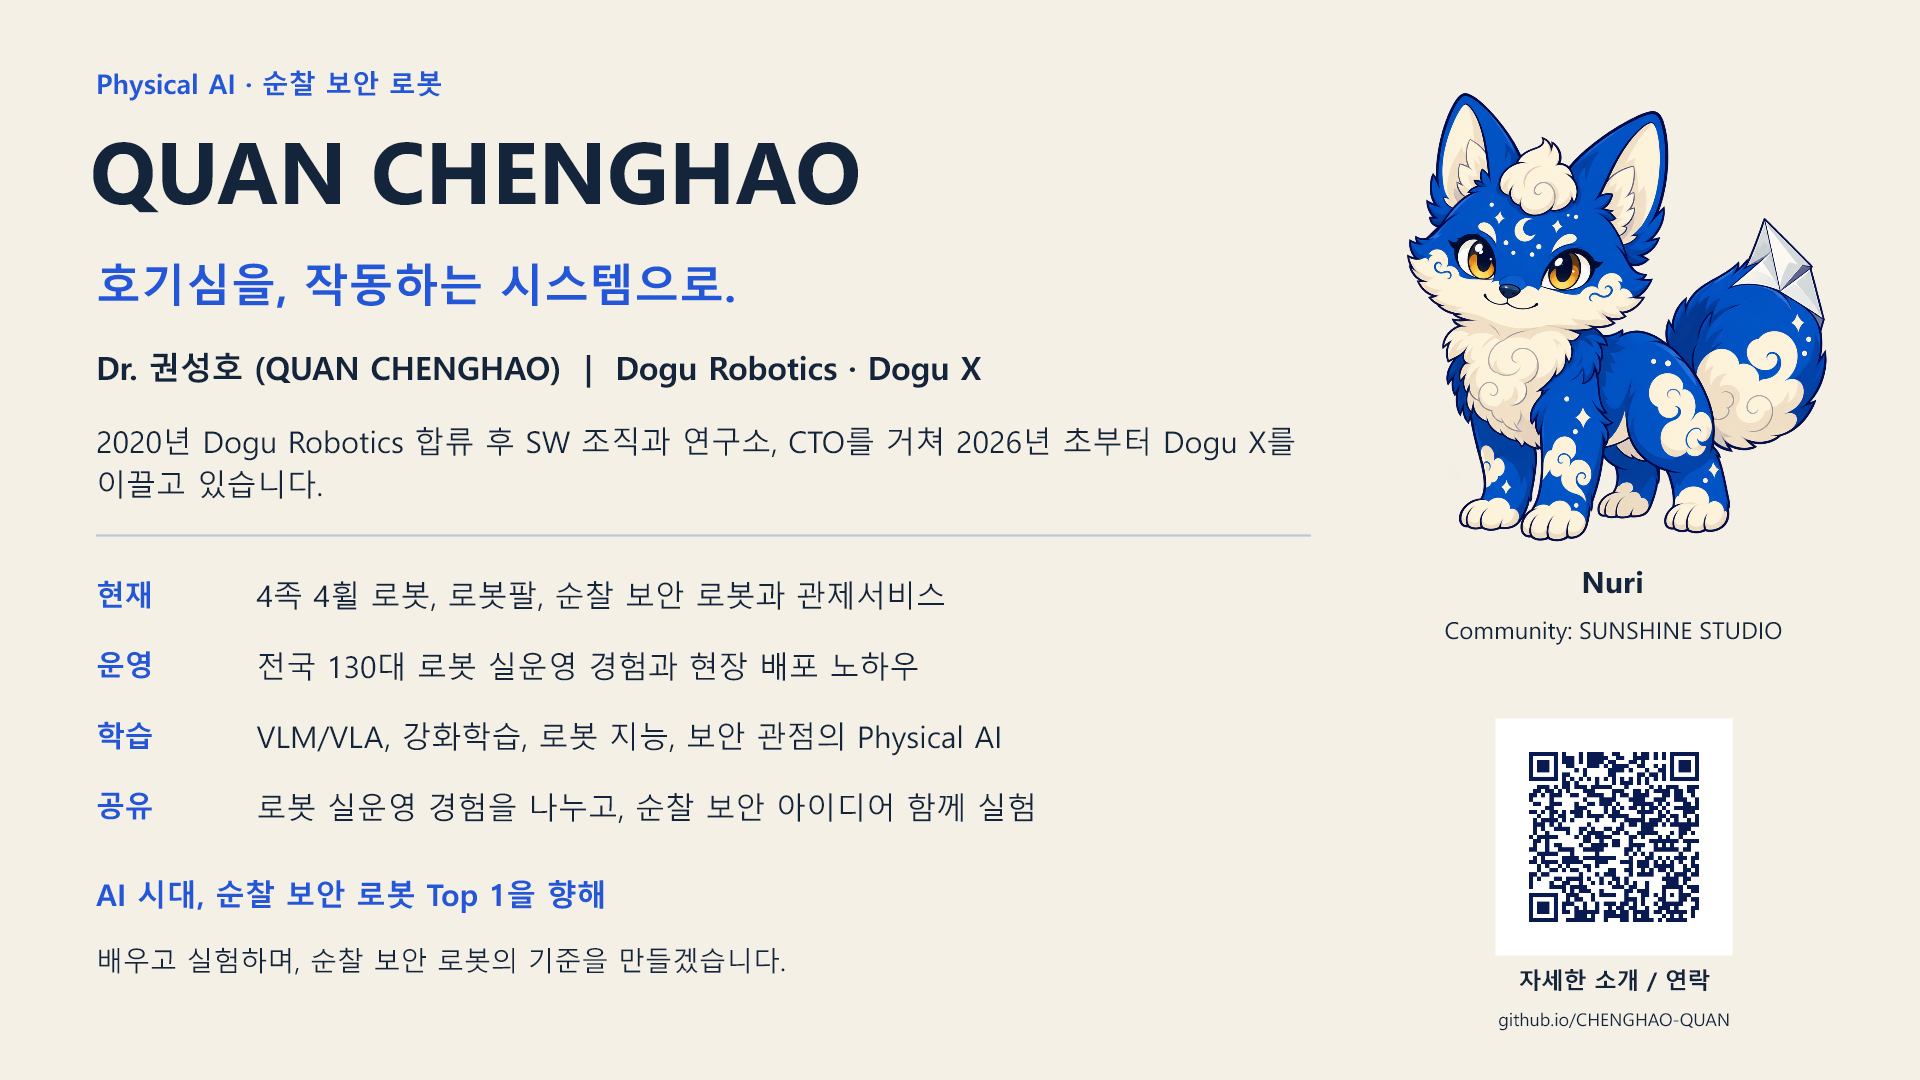
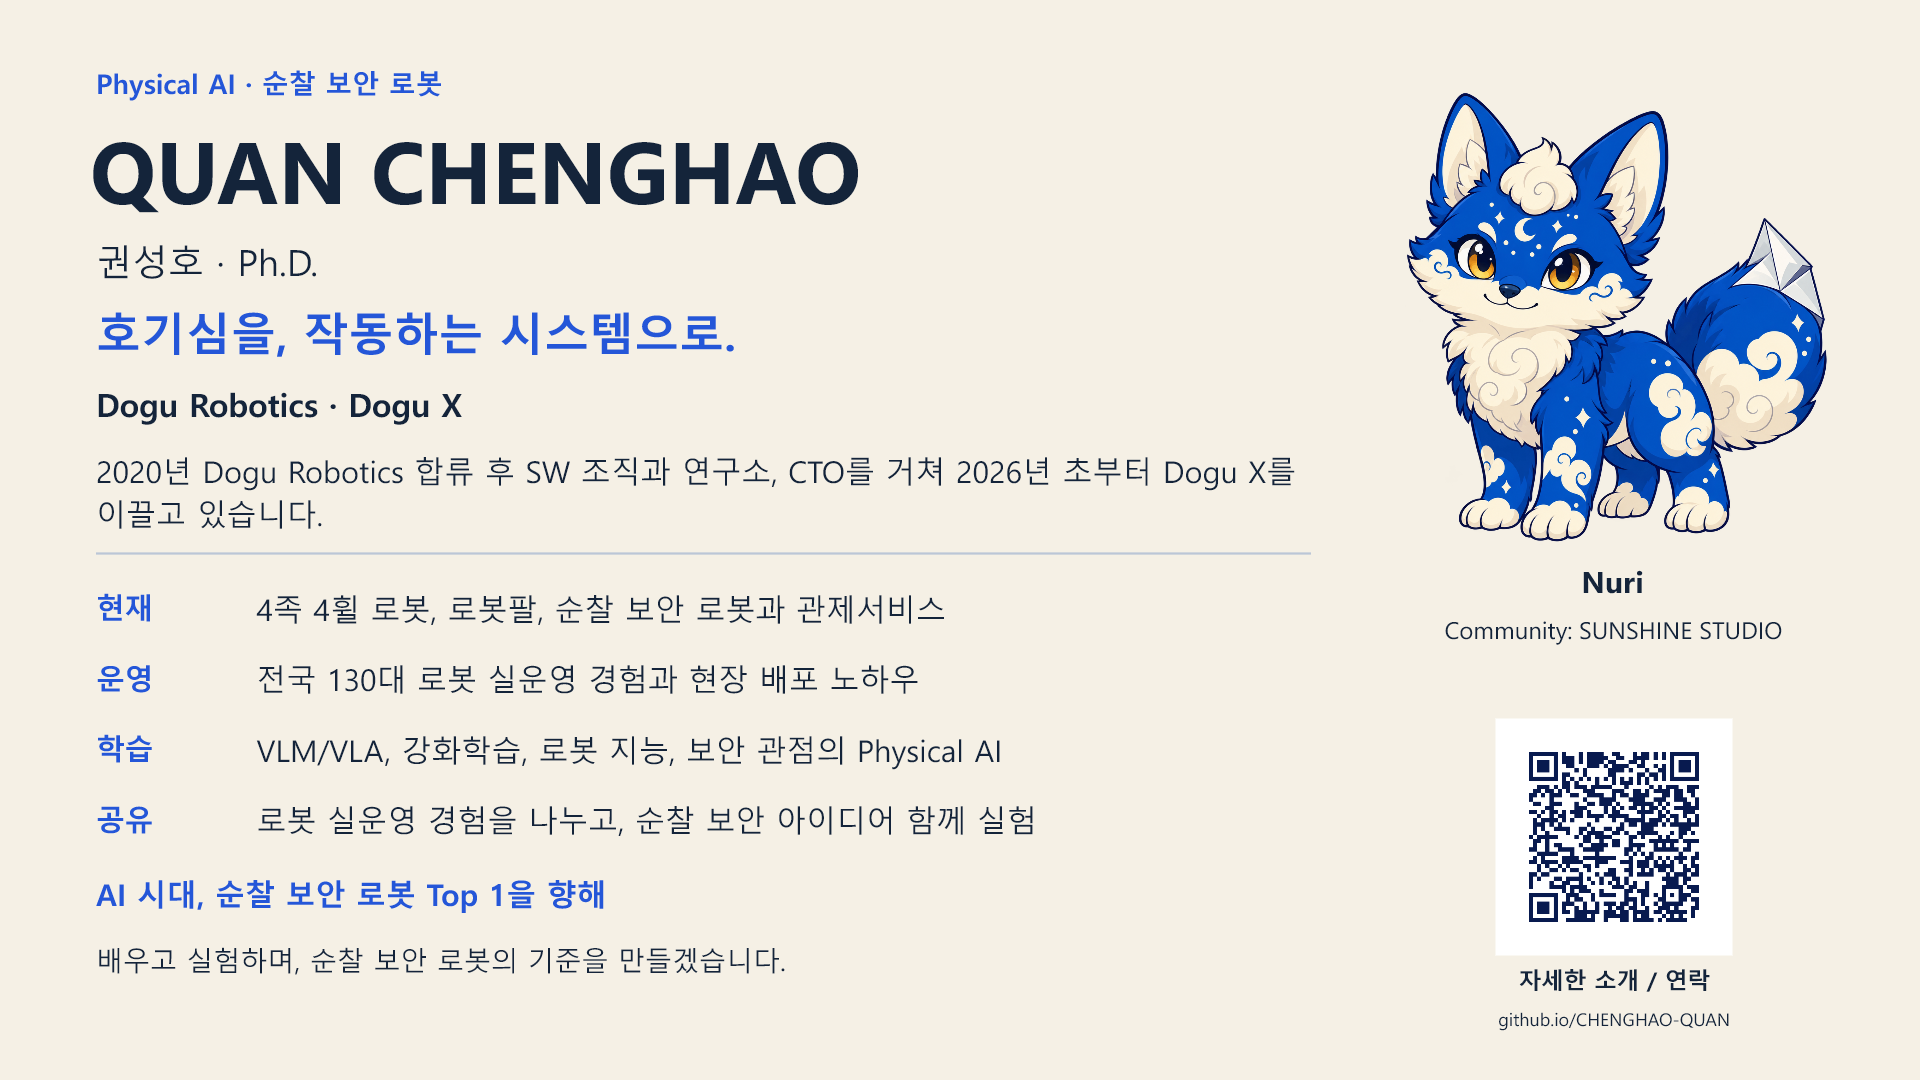
Pair QUAN CHENGHAO with Korean name across site and slides

diff --git a/knowledge-hub/index.html b/knowledge-hub/index.html
@@ -3,28 +3,28 @@
 <head>
 <meta charset="utf-8">
 <meta name="viewport" content="width=device-width, initial-scale=1">
-<title>Knowledge Hub 소개 | QUAN CHENGHAO</title>
-<meta name="description" content="QUAN CHENGHAO의 Knowledge Hub. 협력사 문서와 엔지니어의 질문·답변을 연결해 지식을 축적하는 다국어 협업 시스템.">
+<title>Knowledge Hub 소개 | QUAN CHENGHAO · 권성호</title>
+<meta name="description" content="QUAN CHENGHAO · 권성호의 Knowledge Hub. 협력사 문서와 엔지니어의 질문·답변을 연결해 지식을 축적하는 다국어 협업 시스템.">
 <meta name="theme-color" content="#F5F0E5">
 <link rel="canonical" href="https://chquandogong.github.io/CHENGHAO-QUAN/knowledge-hub/">
 <link rel="icon" type="image/png" sizes="32x32" href="../chenghao_intro_assets/favicon-32.png">
 <link rel="icon" type="image/png" sizes="192x192" href="../chenghao_intro_assets/icon-192.png">
 <link rel="apple-touch-icon" sizes="180x180" href="../chenghao_intro_assets/apple-touch-icon.png">
 <meta property="og:type" content="website">
-<meta property="og:site_name" content="QUAN CHENGHAO">
-<meta property="og:title" content="Knowledge Hub | QUAN CHENGHAO">
+<meta property="og:site_name" content="QUAN CHENGHAO · 권성호">
+<meta property="og:title" content="Knowledge Hub | QUAN CHENGHAO · 권성호">
 <meta property="og:description" content="협력사 문서와 엔지니어의 질문·답변을 연결해 지식을 축적하는 다국어 협업 시스템.">
 <meta property="og:url" content="https://chquandogong.github.io/CHENGHAO-QUAN/knowledge-hub/">
 <meta property="og:image" content="https://chquandogong.github.io/CHENGHAO-QUAN/chenghao_intro_assets/social-card.png">
 <meta property="og:image:type" content="image/png">
 <meta property="og:image:width" content="1200">
 <meta property="og:image:height" content="630">
-<meta property="og:image:alt" content="QUAN CHENGHAO and Nuri. From curiosity to working systems.">
+<meta property="og:image:alt" content="QUAN CHENGHAO · 권성호 and Nuri. From curiosity to working systems.">
 <meta name="twitter:card" content="summary_large_image">
-<meta name="twitter:title" content="Knowledge Hub | QUAN CHENGHAO">
+<meta name="twitter:title" content="Knowledge Hub | QUAN CHENGHAO · 권성호">
 <meta name="twitter:description" content="협력사 문서와 엔지니어의 질문·답변을 연결해 지식을 축적하는 다국어 협업 시스템.">
 <meta name="twitter:image" content="https://chquandogong.github.io/CHENGHAO-QUAN/chenghao_intro_assets/social-card.png">
-<meta name="twitter:image:alt" content="QUAN CHENGHAO and Nuri. From curiosity to working systems.">
+<meta name="twitter:image:alt" content="QUAN CHENGHAO · 권성호 and Nuri. From curiosity to working systems.">
 <link rel="preconnect" href="https://fonts.googleapis.com">
 <link rel="preconnect" href="https://fonts.gstatic.com" crossorigin>
 <link href="https://fonts.googleapis.com/css2?family=Noto+Sans+KR:wght@400;500;700&family=JetBrains+Mono:wght@500&display=swap" rel="stylesheet">
@@ -116,7 +116,7 @@
 
 <div class="wrap">
 <header class="hero">
-  <a class="brand-home" href="../"><span class="brand-fold" aria-hidden="true"></span>QUAN CHENGHAO</a>
+  <a class="brand-home" href="../"><span class="brand-fold" aria-hidden="true"></span>QUAN CHENGHAO · 권성호</a>
   <div class="eyebrow">Knowledge Hub · 조직 사이의 지식 순환</div>
   <h1>문서가 답하고,<br>사람이 잇고, 지식이 남는다.</h1>
   <p class="lede">협력사에서 받은 기술 문서와, 그 문서를 만든 회사의 엔지니어 사이에서 답이 흩어지지 않게 하는 비공개 협업 시스템입니다. 문서에 있는 것은 문서를 인용해 답하고, 없는 것은 답할 수 있는 사람에게 보내고, 검증된 답은 다음 사람이 찾는 지식이 됩니다. 각자 자기 언어로.</p>

diff --git a/prism/index.html b/prism/index.html
@@ -3,28 +3,28 @@
 <head>
 <meta charset="utf-8">
 <meta name="viewport" content="width=device-width, initial-scale=1">
-<title>Prism 소개 | QUAN CHENGHAO</title>
-<meta name="description" content="QUAN CHENGHAO의 Prism. AI와 나눈 판단과 자료를 연결하고 다시 찾기 위한 개인 지식 시스템.">
+<title>Prism 소개 | QUAN CHENGHAO · 권성호</title>
+<meta name="description" content="QUAN CHENGHAO · 권성호의 Prism. AI와 나눈 판단과 자료를 연결하고 다시 찾기 위한 개인 지식 시스템.">
 <meta name="theme-color" content="#F5F0E5">
 <link rel="canonical" href="https://chquandogong.github.io/CHENGHAO-QUAN/prism/">
 <link rel="icon" type="image/png" sizes="32x32" href="../chenghao_intro_assets/favicon-32.png">
 <link rel="icon" type="image/png" sizes="192x192" href="../chenghao_intro_assets/icon-192.png">
 <link rel="apple-touch-icon" sizes="180x180" href="../chenghao_intro_assets/apple-touch-icon.png">
 <meta property="og:type" content="website">
-<meta property="og:site_name" content="QUAN CHENGHAO">
-<meta property="og:title" content="Prism | QUAN CHENGHAO">
+<meta property="og:site_name" content="QUAN CHENGHAO · 권성호">
+<meta property="og:title" content="Prism | QUAN CHENGHAO · 권성호">
 <meta property="og:description" content="AI와 나눈 판단과 자료를 연결하고 다시 찾기 위한 개인 지식 시스템.">
 <meta property="og:url" content="https://chquandogong.github.io/CHENGHAO-QUAN/prism/">
 <meta property="og:image" content="https://chquandogong.github.io/CHENGHAO-QUAN/chenghao_intro_assets/social-card.png">
 <meta property="og:image:type" content="image/png">
 <meta property="og:image:width" content="1200">
 <meta property="og:image:height" content="630">
-<meta property="og:image:alt" content="QUAN CHENGHAO and Nuri. From curiosity to working systems.">
+<meta property="og:image:alt" content="QUAN CHENGHAO · 권성호 and Nuri. From curiosity to working systems.">
 <meta name="twitter:card" content="summary_large_image">
-<meta name="twitter:title" content="Prism | QUAN CHENGHAO">
+<meta name="twitter:title" content="Prism | QUAN CHENGHAO · 권성호">
 <meta name="twitter:description" content="AI와 나눈 판단과 자료를 연결하고 다시 찾기 위한 개인 지식 시스템.">
 <meta name="twitter:image" content="https://chquandogong.github.io/CHENGHAO-QUAN/chenghao_intro_assets/social-card.png">
-<meta name="twitter:image:alt" content="QUAN CHENGHAO and Nuri. From curiosity to working systems.">
+<meta name="twitter:image:alt" content="QUAN CHENGHAO · 권성호 and Nuri. From curiosity to working systems.">
 <link rel="preconnect" href="https://fonts.googleapis.com">
 <link rel="preconnect" href="https://fonts.gstatic.com" crossorigin>
 <link href="https://fonts.googleapis.com/css2?family=Noto+Sans+KR:wght@400;500;700&family=JetBrains+Mono:wght@500&display=swap" rel="stylesheet">
@@ -119,7 +119,7 @@
 
 <div class="wrap">
 <header class="hero">
-  <a class="brand-home" href="../"><span class="brand-fold" aria-hidden="true"></span>QUAN CHENGHAO</a>
+  <a class="brand-home" href="../"><span class="brand-fold" aria-hidden="true"></span>QUAN CHENGHAO · 권성호</a>
   <div class="eyebrow">Prism · 개인 지식 시스템</div>
   <h1>AI와 나눈 판단이<br>흩어지지 않게.</h1>
   <p class="lede">여러 AI 어시스턴트를 오가며 내린 결정과, 그때 버린 대안을 한곳에 모아 다음 작업 앞에 다시 꺼내 놓는 시스템입니다. 어시스턴트는 셋인데, 그 사이에 공유된 기억은 없었습니다.</p>

diff --git a/locales.js b/locales.js
@@ -48,7 +48,9 @@ globalThis.PROFILE_LOCALES = {
     slide: {
       'program-eyebrow': 'Physical AI · 순찰 보안 로봇',
       'main-title': 'AI 시대,\n순찰 보안 로봇\nTop 1을 향해',
-      'person-line': 'Dr. 권성호 (QUAN CHENGHAO)  |  Dogu Robotics · Dogu X',
+      'display-name': 'QUAN CHENGHAO',
+      'korean-name': '권성호 · Ph.D.',
+      'person-line': 'Dogu Robotics · Dogu X',
       'short-intro': '2020년 Dogu Robotics 합류 후 SW 조직과 연구소, CTO를 거쳐 2026년 초부터 Dogu X를 이끌고 있습니다.',
       'label-현재': '현재', 'value-현재': '4족 4휠 로봇, 로봇팔, 순찰 보안 로봇과 관제서비스',
       'label-운영': '운영', 'value-운영': '전국 130대 로봇 실운영 경험과 현장 배포 노하우',
@@ -62,7 +64,7 @@ globalThis.PROFILE_LOCALES = {
   en: {
     htmlLang: 'en', label: 'English',
     page: {
-      title: "QUAN CHENGHAO | From curiosity to working systems.",
+      title: "QUAN CHENGHAO · 권성호 | From curiosity to working systems.",
       skip: 'Skip to content', tools: 'Page tools', menu: 'Open menu', language: 'Select language',
       themeLight: 'Light theme', themeDark: 'Dark theme', image: 'Save page as PNG', print: 'Print / PDF',
       imageError: 'The page image could not be saved. Please use the slide PNG download.',
@@ -108,7 +110,9 @@ globalThis.PROFILE_LOCALES = {
     slide: {
       'program-eyebrow': 'Physical AI · Security Robotics',
       'main-title': 'Patrol & security\nrobotics in the AI era\nAiming for No. 1',
-      'person-line': 'Dr. 권성호 (QUAN CHENGHAO)  |  Dogu Robotics · Dogu X',
+      'display-name': 'QUAN CHENGHAO',
+      'korean-name': '권성호 · Ph.D.',
+      'person-line': 'Dogu Robotics · Dogu X',
       'short-intro': 'Joined Dogu Robotics in 2020. Led software and R&D, served as CTO.\nLeading Dogu X since early 2026.',
       'label-현재': 'Focus', 'value-현재': 'Quadruped wheeled robots, arms and security fleets',
       'label-운영': 'Field', 'value-운영': '130 robots operating across Korea, deployment expertise',
@@ -122,7 +126,7 @@ globalThis.PROFILE_LOCALES = {
   zh: {
     htmlLang: 'zh-Hans', label: '中文',
     page: {
-      title: "QUAN CHENGHAO | 从好奇出发，让系统真正运转。",
+      title: "QUAN CHENGHAO · 권성호 | 从好奇出发，让系统真正运转。",
       skip: '跳至正文', tools: '页面工具', menu: '打开菜单', language: '选择语言',
       themeLight: '浅色主题', themeDark: '深色主题', image: '保存页面为PNG', print: '打印 / PDF',
       imageError: '页面图片保存失败，请使用幻灯片PNG下载链接。',
@@ -168,7 +172,9 @@ globalThis.PROFILE_LOCALES = {
     slide: {
       'program-eyebrow': '物理AI · 巡逻安防机器人',
       'main-title': 'AI时代的\n巡逻安防机器人\n目标：行业第一',
-      'person-line': 'Dr. 권성호 (QUAN CHENGHAO)  |  Dogu Robotics · Dogu X',
+      'display-name': 'QUAN CHENGHAO',
+      'korean-name': '권성호 · Ph.D.',
+      'person-line': 'Dogu Robotics · Dogu X',
       'short-intro': '2020年加入Dogu Robotics，历任软件与研发负责人、CTO，自2026年初起领导Dogu X团队。',
       'label-현재': '目前', 'value-현재': '四足四轮机器人、机械臂、巡逻安防机器人与监控调度服务',
       'label-운영': '运营', 'value-운영': '在韩国各地实际运营130台机器人，积累现场部署经验',

diff --git a/index.html b/index.html
@@ -11,7 +11,7 @@
   <link rel="icon" type="image/png" sizes="192x192" href="chenghao_intro_assets/icon-192.png">
   <link rel="apple-touch-icon" sizes="180x180" href="chenghao_intro_assets/apple-touch-icon.png">
   <meta property="og:type" content="website">
-  <meta property="og:site_name" content="QUAN CHENGHAO">
+  <meta property="og:site_name" content="QUAN CHENGHAO · 권성호">
   <meta property="og:title" content="QUAN CHENGHAO · 권성호">
   <meta property="og:description" content="호기심을, 작동하는 시스템으로. From curiosity to working systems. Robotics · Physical AI · AI-assisted tools.">
   <meta property="og:url" content="https://chquandogong.github.io/CHENGHAO-QUAN/">
@@ -24,7 +24,7 @@
   <meta name="twitter:title" content="QUAN CHENGHAO · 권성호">
   <meta name="twitter:description" content="호기심을, 작동하는 시스템으로. From curiosity to working systems. Robotics · Physical AI · AI-assisted tools.">
   <meta name="twitter:image" content="https://chquandogong.github.io/CHENGHAO-QUAN/chenghao_intro_assets/social-card.png">
-  <meta name="twitter:image:alt" content="QUAN CHENGHAO and Nuri. From curiosity to working systems.">
+  <meta name="twitter:image:alt" content="QUAN CHENGHAO · 권성호 and Nuri. From curiosity to working systems.">
   <link rel="preconnect" href="https://fonts.googleapis.com">
   <link rel="preconnect" href="https://fonts.gstatic.com" crossorigin>
   <link href="https://fonts.googleapis.com/css2?family=Inter:wght@400;500;600;700;800;900&family=Noto+Sans+KR:wght@400;500;600;700;800;900&display=swap" rel="stylesheet">
@@ -266,10 +266,10 @@
   <main id="main-content" class="page">
     <section class="hero" aria-label="소개 첫 화면" data-i18n-aria="hero">
       <div class="hero-inner">
-        <div class="brand-home"><span class="brand-fold" aria-hidden="true"></span>QUAN CHENGHAO</div>
+        <div class="brand-home"><span class="brand-fold" aria-hidden="true"></span>QUAN CHENGHAO · 권성호</div>
         <div class="hero-grid">
           <div>
-            <p class="brand-name"><strong>QUAN CHENGHAO</strong><span>권성호 · PhD</span></p>
+            <p class="brand-name"><strong>QUAN CHENGHAO</strong><span>권성호 · Ph.D.</span></p>
             <p class="eyebrow" data-i18n="brandFocus">Systems Architect &amp; Problem Framer · Robotics · Physical AI</p>
             <h1 data-i18n="brandTagline">호기심을, 작동하는 시스템으로.</h1>
             <p class="brand-english" data-i18n="brandSubtitle">From curiosity to working systems.</p>
@@ -385,7 +385,7 @@
         <p data-i18n="nuriStory">SUNSHINE STUDIO는 탐색하고 만들고 나누는 개인 협업 공간입니다. 구름여우 Nuri의 코발트블루는 집중을, 크림색은 따뜻함을, 은빛 종이접기 꼬리는 아이디어를 결과물로 만드는 과정을 나타냅니다.</p>
       </section>
       <footer class="brand-footer">
-        <strong>QUAN CHENGHAO</strong>
+        <strong>QUAN CHENGHAO · 권성호</strong>
         <nav aria-label="Profiles">
           <a href="https://www.linkedin.com/in/chenghao-quan/" target="_blank" rel="noreferrer">LinkedIn</a>
           <a href="https://github.com/chquan17-bit" target="_blank" rel="noreferrer">GitHub · chquan17-bit</a>

diff --git a/brand.css b/brand.css
@@ -55,8 +55,8 @@ html.theme-dark, :root[data-theme="dark"] {
 .profile-page .hero::before, .profile-page .hero::after { display: none; }
 .profile-page .hero-inner { width: min(1120px,100%); max-width: none; margin: 0 auto; }
 .profile-page .hero-grid { display: grid; grid-template-columns: minmax(0,1fr) 180px; gap: 42px; align-items: end; }
-.profile-page .brand-name { display: flex; flex-wrap: wrap; align-items: baseline; gap: 8px 16px; margin-bottom: 12px; }
-.profile-page .brand-name strong { font: 700 clamp(24px,3vw,32px)/1.3 Inter, "Segoe UI", sans-serif; letter-spacing: -.02em; }
+.profile-page .brand-name { display: flex; flex-direction: column; align-items: flex-start; gap: 8px; margin-bottom: 12px; }
+.profile-page .brand-name strong { font: 700 32px/1.3 Inter, "Segoe UI", sans-serif; letter-spacing: 0; }
 .profile-page .brand-name span { font-size: 16px; color: var(--text-secondary); }
 .profile-page .eyebrow { font-size: 13px; font-weight: 600; margin: 0 0 28px; letter-spacing: .025em; }
 .profile-page .eyebrow::before { display: none; }
@@ -103,8 +103,7 @@ html.theme-dark, :root[data-theme="dark"] {
   .profile-page .stats { gap: 10px; }
   .profile-page .stat { padding: 20px; }
   .profile-page .stat strong { font-size: 28px; }
-  .profile-page .brand-name { display: block; }
-  .profile-page .brand-name span { display: block; margin-top: 8px; }
+  .profile-page .brand-name strong { font-size: 28px; }
 }
 @media print {
   .profile-page .hero { padding: 30px 0; }

diff --git a/README.md b/README.md
@@ -1,4 +1,4 @@
-# QUAN CHENGHAO
+# QUAN CHENGHAO · 권성호
 
 **호기심을, 작동하는 시스템으로.**
 
@@ -6,7 +6,7 @@
 
 <img src="chenghao_intro_assets/nuri.webp" alt="Nuri, the cloud-fox brand companion" width="200">
 
-Dr. 권성호. Robotics, Physical AI, and AI-assisted tools. Dogu Robotics / Dogu X.
+Robotics, Physical AI, and AI-assisted tools. Dogu Robotics / Dogu X.
 
 [Public website](https://chquandogong.github.io/CHENGHAO-QUAN/) · [LinkedIn](https://www.linkedin.com/in/chenghao-quan/) · [GitHub: chquandogong](https://github.com/chquandogong) · [GitHub: chquan17-bit](https://github.com/chquan17-bit) · [Reddit](https://www.reddit.com/user/BrainJaded4312/)
 
@@ -36,13 +36,13 @@ Professional profile and editable one-slide introductions for business meetings,
 
 The QR code on every slide opens the [profile](https://chquandogong.github.io/CHENGHAO-QUAN/). The site remembers the visitor's language selection when browser storage is available. GitHub Pages serves the root of the `gh-pages` branch. No build step is required.
 
-Biography and the figure of 130 operating robots are based on information supplied by Dr. 권성호 (QUAN CHENGHAO). Nuri is an AI-generated cloud-fox brand companion, reused from the approved master without redesign. The original robotics concept illustration remains as a legacy asset; it is not an actual product photograph. The current PPTX and PNG downloads use Nuri and preserve the original biography, speaker narration, and QR code.
+Biography and the figure of 130 operating robots are based on information supplied by QUAN CHENGHAO · 권성호. Nuri is an AI-generated cloud-fox brand companion, reused from the approved master without redesign. The original robotics concept illustration remains as a legacy asset; it is not an actual product photograph. The current PPTX and PNG downloads use Nuri and preserve the original biography, speaker narration, and QR code.
 
 [LinkedIn](https://www.linkedin.com/in/chenghao-quan/) · [Dogu Robotics](https://www.dogurobotics.com/) · [Dogu](https://www.dogu.xyz/)
 
 ## Personal brand · 2026-10-23
 
-The passport spelling **QUAN CHENGHAO** is the canonical English display name. The website uses cobalt `#2456D8`, cream `#F5F0E5`, silver `#BBC6D6`, and night ink `#14243A`, with accessible light and dark treatments.
+The passport spelling **QUAN CHENGHAO** is the canonical English display name. All languages show it prominently with **권성호 · Ph.D.** directly below on the website and presentation slides. Single-line titles and metadata use **QUAN CHENGHAO · 권성호**. The website uses cobalt `#2456D8`, cream `#F5F0E5`, silver `#BBC6D6`, and night ink `#14243A`, with accessible light and dark treatments.
 
 - `brand.css`: shared presentation styles for the profile, Prism, and Knowledge Hub.
 - `chenghao_intro_assets/nuri.webp`: optimized Nuri companion illustration.
